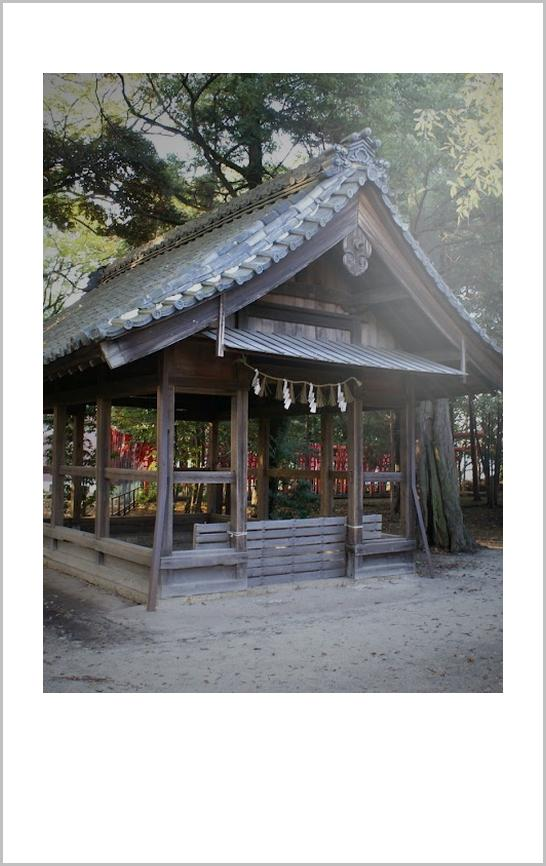
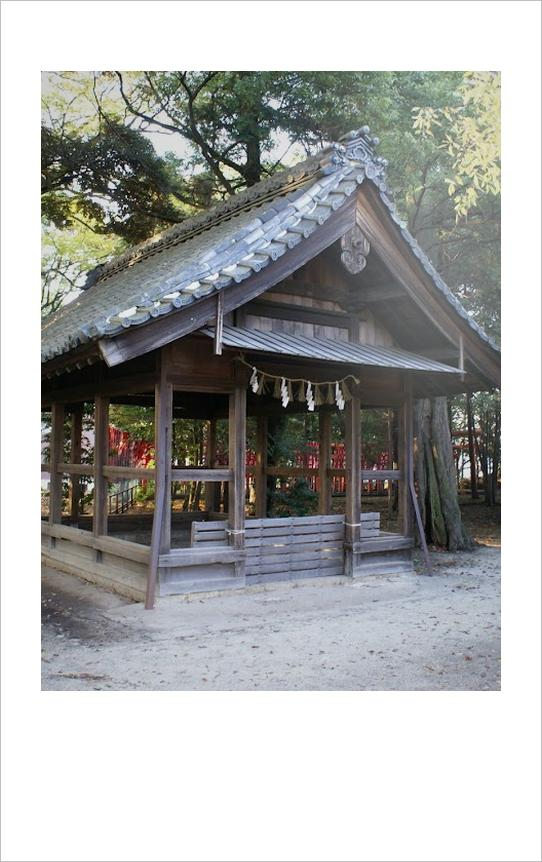
Update: Fix typo, 枠線を1にしたものに差し替え

diff --git a/README.md b/README.md
@@ -28,7 +28,7 @@ options:
                         光漏れの位置を指定します。デフォルトは upper_right です。
   --leak-intensity LEAK_INTENSITY, --li LEAK_INTENSITY
                         光漏れの強度を指定します。範囲は 0.0 から 1.0 もしくは auto で、デフォルトは 0.5 です。
-  --vinette-strength VINETTE_STRENGTH, --vs VINETTE_STRENGTH
+  --vignette-strength VINETTE_STRENGTH, --vs VINETTE_STRENGTH
                         ヴィネット(周辺減光)の強度を指定します。範囲は 0.0 から 1.0 で、デフォルトは 0 (適用しない)です。
   --border-size BORDER_SIZE, --bs BORDER_SIZE
                         枠線の太さを指定します。デフォルトは 0 (枠線なし)です。
@@ -43,10 +43,10 @@ options:
 |------------------|---------------------|
 | ![Before](example/sample03_before.jpg) | ![After](example/sample03_after.jpg) |
 
-| 加工パラメータ        | 設定値        |
-|----------------------|---------------|
-| `--border-size`      | `3`           |
-| `--leak-style`       | `auto`        |
-| `--leak-intensity`   | `auto`        |
-| `--leak-position`    | `upper_right` |
-| `--vinette-strength` | `0.3`         |
+| 加工パラメータ         | 設定値        |
+|-----------------------|---------------|
+| `--border-size`       | `1`           |
+| `--leak-style`        | `auto`        |
+| `--leak-intensity`    | `auto`        |
+| `--leak-position`     | `upper_right` |
+| `--vignette-strength` | `0.3`         |
